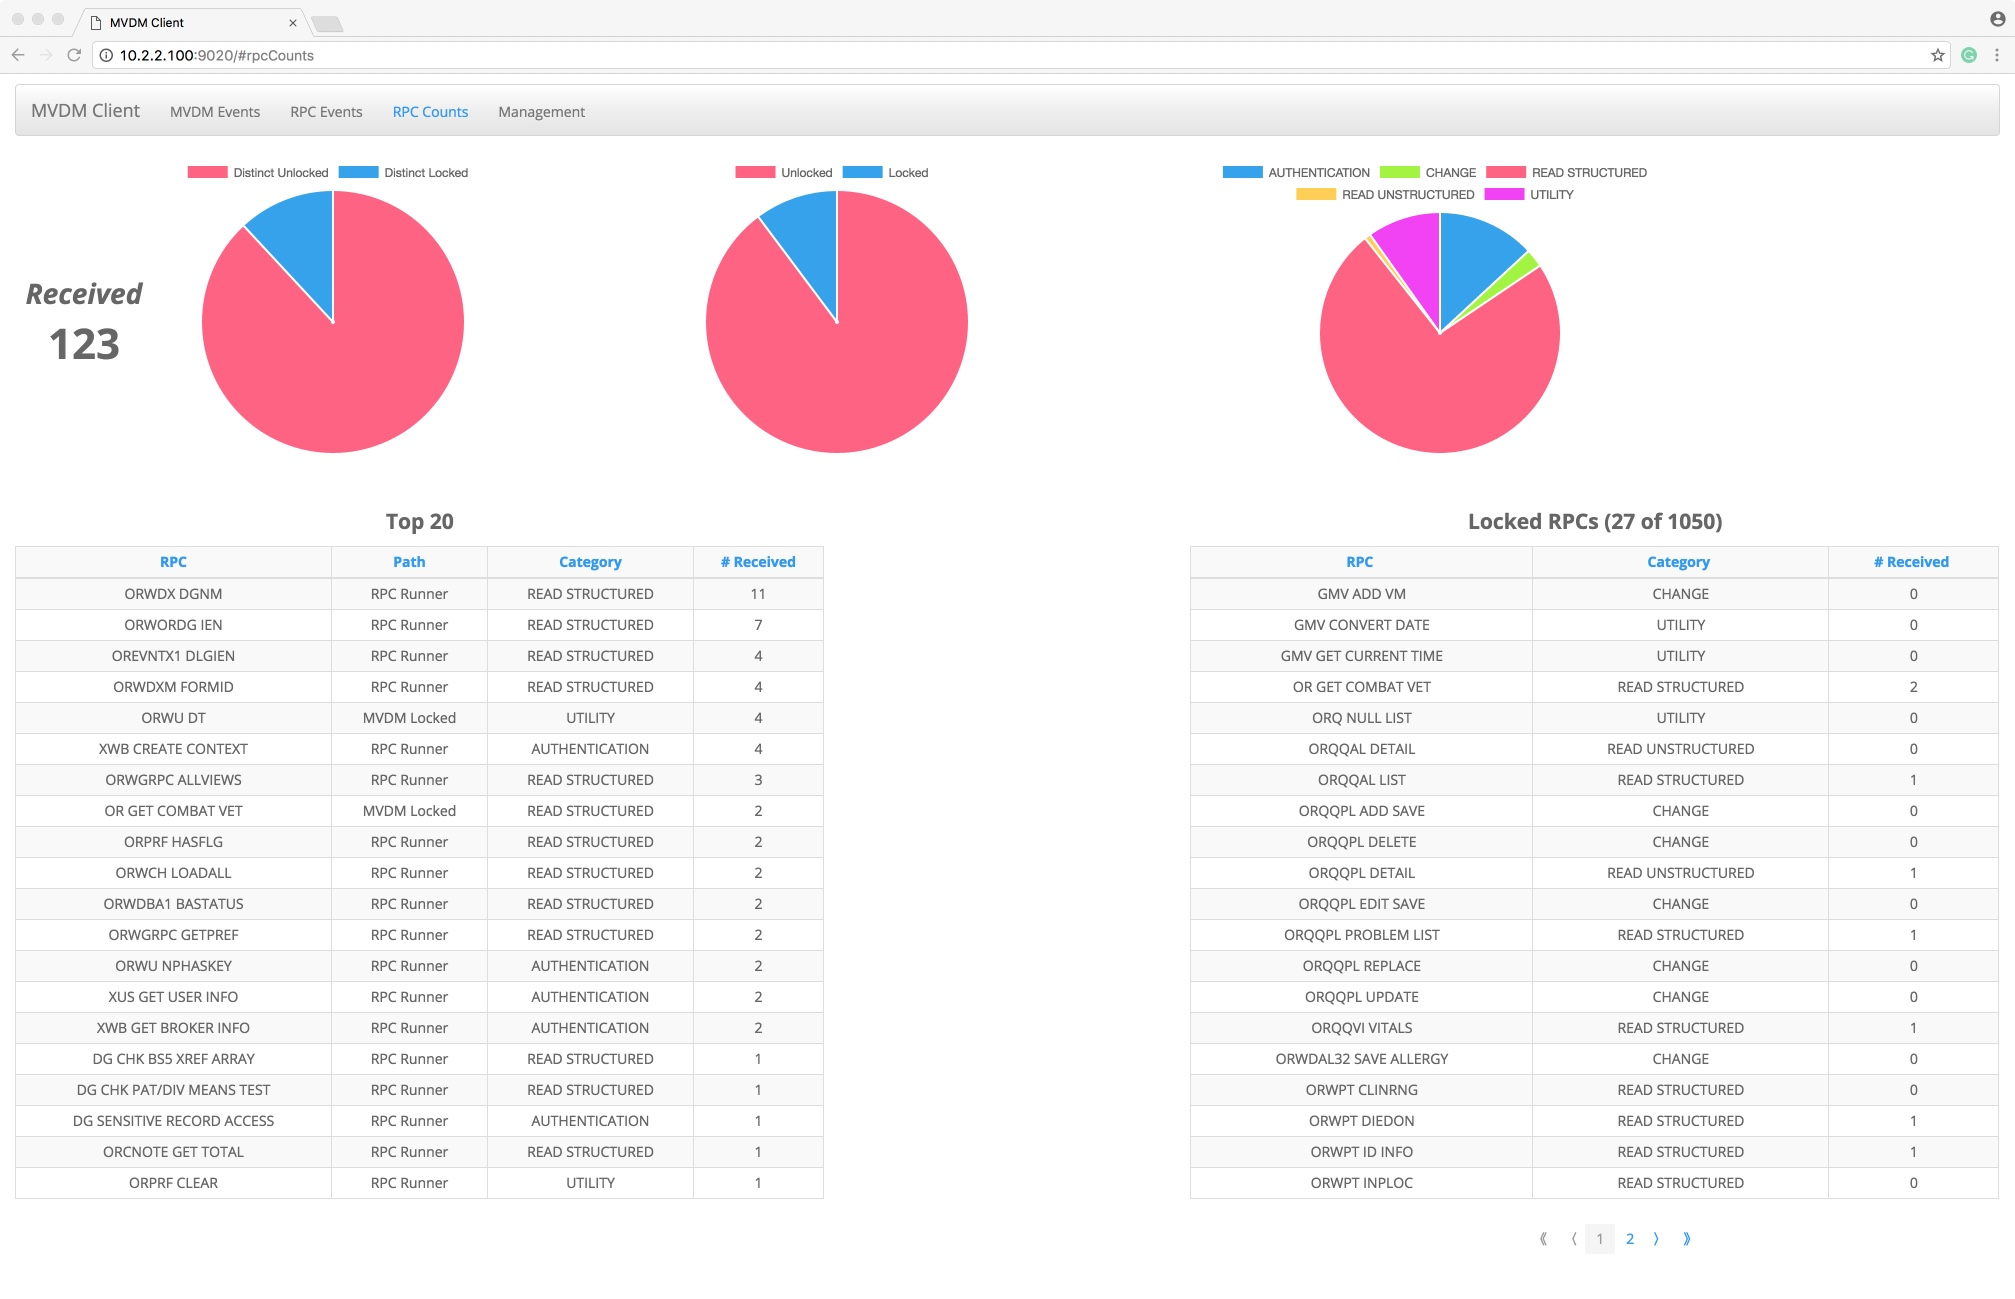
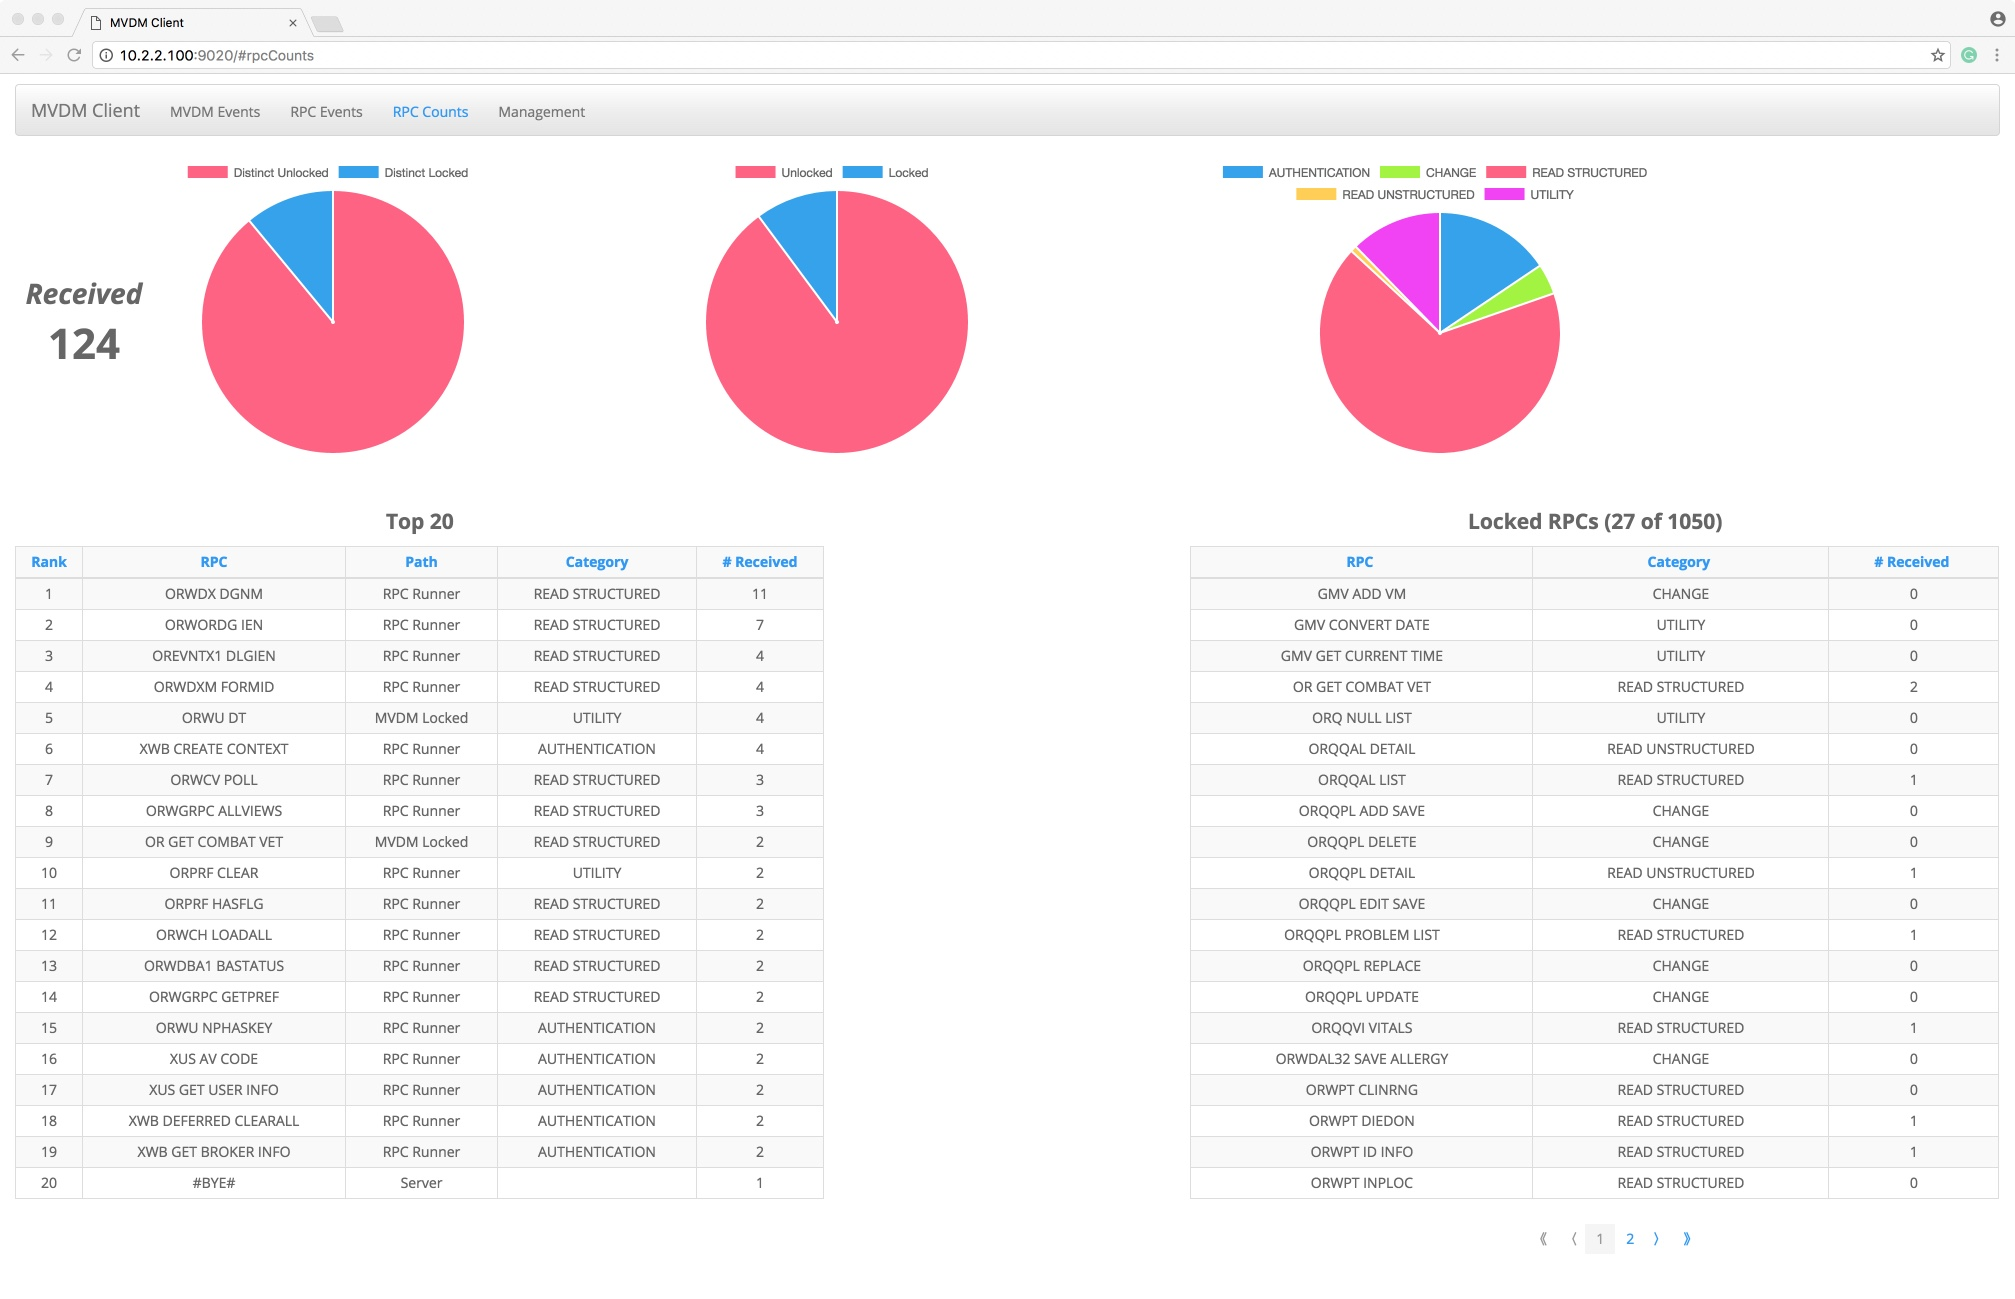
adding rank to top20 listing

diff --git a/rpcServer/static/js/rpcCounts/rpcCountCollection.js b/rpcServer/static/js/rpcCounts/rpcCountCollection.js
@@ -94,7 +94,14 @@ define([
             throw new Error('Number parameter must be greater than zero.')
          }
 
-         return this.toJSON().reverse().splice(0, num);
+         var top20 = this.toJSON().reverse().splice(0, num);
+
+         var rank = 1;
+         top20.forEach(function(entry) {
+            entry.rank = rank++;
+         });
+
+         return top20;
       }
    });
 
